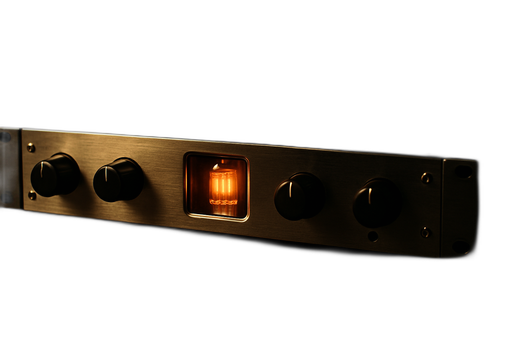
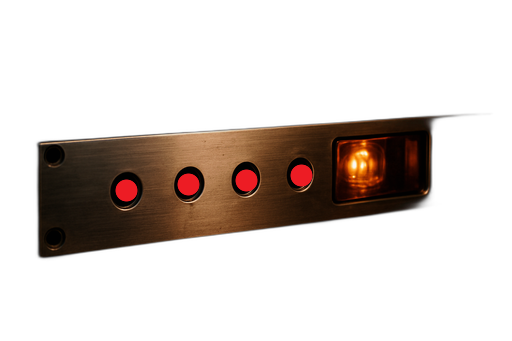
Rack effects: texture nodes + overlay knobs from red dot detection
- NODE_STUDIO nodes now load rack unit textures in signal chain
- Detail view shows rack image with overlay knobs on detected positions
- 9 rack knob maps from red dots (with dummies for extra holes)
- Regenerated all 9 assets with empty knob holes matching param counts
- Dome silver knobs overlaid on rack faceplates

Changed region(s): [[0.0, 0.3226, 0.9375, 0.7625]]

diff --git a/src/gui/gui_main.cpp b/src/gui/gui_main.cpp
@@ -1801,6 +1801,17 @@ int main(int argc, char *argv[]) {
                     } else if (n.kind == NODE_CAB) {
                         int ctype = (n.chain_id == 0) ? s_cab_type : s_cab_type_b;
                         tex = load_cab_texture(ctype);
+                    } else if (n.kind == NODE_STUDIO) {
+                        static const char *rack_fnames[] = {
+                            "iron_squeeze", "glass_eq", "reel_warmth", "brick_wall",
+                            "velvet_press", "glue_bus", "valve_color", "precision_eq", "room_engine"
+                        };
+                        fx_studio_type_t st = fx_studio_get_type(engine, n.pedal_id);
+                        if (st >= 0 && st < FX_STUDIO_COUNT) {
+                            char spath[256];
+                            snprintf(spath, sizeof(spath), "resources/studio/%s_nobg.png", rack_fnames[st]);
+                            tex = fx_texture_load(spath);
+                        }
                     } else if (n.kind == NODE_INPUT) {
                         tex = fx_texture_load("resources/cables/trs_plug_input.png");
                         /* Render INPUT flipped horizontally (plug tip faces left) */
@@ -3248,22 +3259,94 @@ int main(int argc, char *argv[]) {
                         }
                         ImGui::Dummy(ImVec2(0.0f, 8.0f));
 
-                        /* Knobs — centered */
+                        /* Rack unit image + overlay knobs */
                         {
-                            const float KNOB_W = 66.0f;
-                            const float KNOB_PAD = 8.0f;
-                            float row_w = nparam * KNOB_W + (nparam > 1 ? (nparam - 1) * KNOB_PAD : 0.0f);
-                            float knob_off = (avail_w - row_w) * 0.5f;
-                            if (knob_off < 0.0f) knob_off = 0.0f;
-                            ImGui::SetCursorPosX(ImGui::GetCursorPosX() + knob_off);
-                        }
-                        for (int k = 0; k < nparam; k++) {
-                            const char *kname = fx_studio_get_param_name(st, k);
-                            float kval = fx_studio_get_param(engine, sid, k);
-                            ImGui::Dummy(ImVec2(8.0f, 0.0f)); ImGui::SameLine();
-                            if (knob_float(kname, &kval, 0.0f, 1.0f, 0.5f, 0.01f))
-                                fx_studio_set_param(engine, sid, k, kval);
-                            if (k < nparam - 1) ImGui::SameLine();
+                            static const char *rack_fnames[] = {
+                                "iron_squeeze", "glass_eq", "reel_warmth", "brick_wall",
+                                "velvet_press", "glue_bus", "valve_color", "precision_eq", "room_engine"
+                            };
+
+                            /* Knob position maps from red dot detection */
+                            struct RackKnobMap { int count; float pos[8][2]; };
+                            static const RackKnobMap rack_knob_maps[] = {
+                                /* iron_squeeze: 6 (5 params + 1 dummy) */
+                                { 6, { {0.154f,0.628f},{0.244f,0.628f},{0.338f,0.630f},{0.656f,0.628f},{0.746f,0.628f},{0.838f,0.628f} } },
+                                /* glass_eq: 7 (6 params + 1 dummy) */
+                                { 7, { {0.139f,0.516f},{0.244f,0.516f},{0.354f,0.516f},{0.461f,0.516f},{0.568f,0.516f},{0.676f,0.519f},{0.783f,0.516f} } },
+                                /* reel_warmth: 5 (4 params + 1 dummy) */
+                                { 5, { {0.227f,0.648f},{0.344f,0.651f},{0.447f,0.648f},{0.551f,0.651f},{0.656f,0.651f} } },
+                                /* brick_wall: 3 (3 params) */
+                                { 3, { {0.239f,0.523f},{0.390f,0.523f},{0.546f,0.523f} } },
+                                /* velvet_press: 3 (3 params) */
+                                { 3, { {0.213f,0.545f},{0.348f,0.543f},{0.486f,0.543f} } },
+                                /* glue_bus: 5 (5 params) */
+                                { 5, { {0.438f,0.551f},{0.521f,0.551f},{0.607f,0.551f},{0.693f,0.554f},{0.777f,0.554f} } },
+                                /* valve_color: 4 (4 params) */
+                                { 4, { {0.246f,0.557f},{0.367f,0.540f},{0.481f,0.528f},{0.588f,0.513f} } },
+                                /* precision_eq: 6 (5 params + 1 dummy) */
+                                { 6, { {0.196f,0.547f},{0.323f,0.544f},{0.446f,0.544f},{0.567f,0.544f},{0.688f,0.541f},{0.813f,0.541f} } },
+                                /* room_engine: 5 (4 params + 1 dummy) */
+                                { 5, { {0.448f,0.538f},{0.554f,0.521f},{0.649f,0.512f},{0.743f,0.500f},{0.831f,0.485f} } },
+                            };
+
+                            char rpath[256];
+                            if (st >= 0 && st < FX_STUDIO_COUNT)
+                                snprintf(rpath, sizeof(rpath), "resources/studio/%s_nobg.png", rack_fnames[st]);
+                            else
+                                rpath[0] = '\0';
+                            uintptr_t rack_tex = fx_texture_load(rpath);
+
+                            float img_w = 500.0f;
+                            float img_h = img_w * 0.3f;
+                            if (rack_tex) {
+                                int rw = 0, rh = 0;
+                                if (fx_texture_get_size(rack_tex, &rw, &rh) && rh > 0) {
+                                    float aspect = (float)rw / (float)rh;
+                                    img_h = img_w / aspect;
+                                }
+                            }
+                            float img_x = (avail_w - img_w) * 0.5f;
+                            if (img_x > 0.0f)
+                                ImGui::SetCursorPosX(ImGui::GetCursorPosX() + img_x);
+
+                            ImVec2 img_pos = ImGui::GetCursorScreenPos();
+
+                            if (rack_tex) {
+                                ImVec4 tint = bypassed ? ImVec4(0.5f,0.5f,0.5f,0.7f) : ImVec4(1,1,1,1);
+                                ImGui::Image((ImTextureID)rack_tex, ImVec2(img_w, img_h),
+                                    ImVec2(0,0), ImVec2(1,1), tint);
+                            } else {
+                                ImGui::Dummy(ImVec2(img_w, img_h));
+                            }
+
+                            /* Overlay knobs on the rack image */
+                            if (st >= 0 && st < FX_STUDIO_COUNT) {
+                                const RackKnobMap &rmap = rack_knob_maps[st];
+                                const float RACK_KNOB_SZ = 30.0f;
+                                const char *knob_tex = "resources/knobs/knob_dome_silver_nobg.png";
+
+                                for (int k = 0; k < rmap.count; k++) {
+                                    float kx = img_pos.x + rmap.pos[k][0] * img_w - RACK_KNOB_SZ * 0.5f;
+                                    float ky = img_pos.y + rmap.pos[k][1] * img_h - RACK_KNOB_SZ * 0.5f;
+
+                                    if (k < nparam) {
+                                        const char *kname = fx_studio_get_param_name(st, k);
+                                        float kval = fx_studio_get_param(engine, sid, k);
+                                        char kid[48];
+                                        snprintf(kid, sizeof(kid), "%s##rack_ov_%d_%d", kname, (int)sid, k);
+                                        if (knob_overlay(kid, &kval, 0.0f, 1.0f, 0.5f, 0.01f,
+                                                         kx, ky, RACK_KNOB_SZ, knob_tex)) {
+                                            fx_studio_set_param(engine, sid, k, kval);
+                                        }
+                                    } else {
+                                        float dummy = 0.5f;
+                                        char did[32];
+                                        snprintf(did, sizeof(did), "##rack_d_%d_%d", (int)sid, k);
+                                        knob_overlay(did, &dummy, 0.0f, 1.0f, 0.5f, 0.0f,
+                                                     kx, ky, RACK_KNOB_SZ, knob_tex);
+                                    }
+                                }
+                            }
                         }
 
                         ImGui::Dummy(ImVec2(0.0f, 12.0f));
